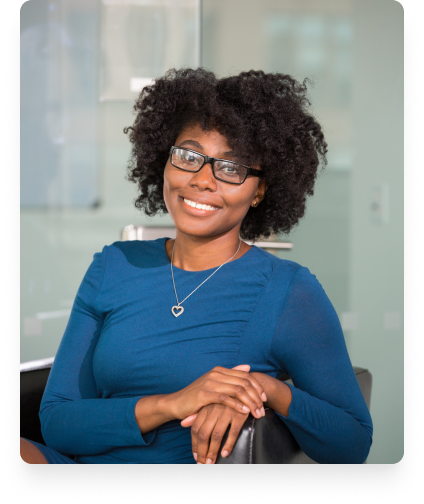
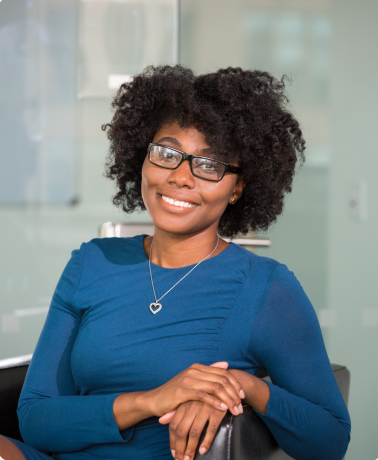
Working testimonial

diff --git a/Front End Dev Career Path/Module 11 React Advanced/01 Reusability/51 Solo Project Component Library++/index.jsx b/Front End Dev Career Path/Module 11 React Advanced/01 Reusability/51 Solo Project Component Library++/index.jsx
@@ -5,19 +5,17 @@ import Star from "./components/Star"
 import Badge from "./components/Badge/Badge"
 import Banner from "./components/Banner/index"
 import Card from "./components/Card/index"
-import Testimonial from "./components/Testimonial/index"
+import TestimonialWithImg from "./components/TestimonialWithImg/index"
 
 function App() {
   return (
-    <Testimonial>
-      <Testimonial.Image><img src="./public/mayAndersons.png" /></Testimonial.Image>
-      <Testimonial.Logo><img src="./public/quote.png" /></Testimonial.Logo>
-      <Testimonial.Quote>
+    <TestimonialWithImg>
+      <TestimonialWithImg.Image img="mayAndersons" />
+      <TestimonialWithImg.Quote>
         Lorem ipsum dolor sit amet, consectetur adipiscing elit. Sed urna nulla vitae laoreet augue. Amet feugiat est integer dolor auctor adipiscing nunc urna, sit. 
-      </Testimonial.Quote>
-      <Testimonial.Author>May Andersons</Testimonial.Author>
-      <Testimonial.Role>Workcation, CTO</Testimonial.Role>
-    </Testimonial>
+      </TestimonialWithImg.Quote>
+      <TestimonialWithImg.Author author="May Andersons" role="Workcation, CTO" />
+    </TestimonialWithImg>
   )
 }
 
@@ -25,6 +23,7 @@ ReactDOM.createRoot(document.getElementById('root')).render(<App />);
 
 
 /*
+      <Testimonial.Logo logo="logo" />
     <Badge style="square" variant="">Badge</Badge>
     ***
     <Banner style="" variant="primary">

diff --git a/Front End Dev Career Path/Module 11 React Advanced/01 Reusability/51 Solo Project Component Library++/style.css b/Front End Dev Career Path/Module 11 React Advanced/01 Reusability/51 Solo Project Component Library++/style.css
@@ -281,6 +281,43 @@ banner-content-primary {
     font-size: 1rem;
 }
 
+.testimonial-with-img {
+    display: flex;
+    flex-direction: column;
+    align-items: center;
+    background: #2545B8;
+    color: #FFFFFF;
+    margin-top: 103px;
+    position: relative;
+}
+
+.testimonial-image {
+    position: absolute;
+    top: -103px;
+    width: 334px;
+    height: 206px;
+    object-fit: cover;
+    object-position: 75% 25%;
+    border-radius: 6px;
+    box-shadow: 0px 20px 25px -5px #0000001A;
+}
+
+.testimonial-quote-container {
+    padding: 0 20px 0px 20px;
+    margin-top: 203px;
+    font-size: 1.5rem;
+}
+
+.testimonial-author {
+    font-size: 1rem;
+}
+
+.testimonial-author p {
+    margin: 0;
+}
+
+
+
 @media (min-width: 550px) {
     .card-section {
         display: flex;

diff --git a/Front End Dev Career Path/Module 11 React Advanced/01 Reusability/51 Solo Project Component Library++/components/TestimonialWithImg/index.js b/Front End Dev Career Path/Module 11 React Advanced/01 Reusability/51 Solo Project Component Library++/components/TestimonialWithImg/index.js
@@ -1,0 +1,10 @@
+import TestimonialWithImg from "./TestimonialWithImg"
+import TestimonialWithImgImage from "./TestimonialWithImgImage"
+import TestimonialWithImgQuote from "./TestimonialWithImgQuote"
+import TestimonialWithImgAuthor from "./TestimonialWithImgAuthor"
+
+TestimonialWithImg.Image = TestimonialWithImgImage
+TestimonialWithImg.Quote = TestimonialWithImgQuote
+TestimonialWithImg.Author = TestimonialWithImgAuthor
+
+export default TestimonialWithImg

diff --git a/Front End Dev Career Path/Module 11 React Advanced/01 Reusability/51 Solo Project Component Library++/components/Testimonial/index.js b/Front End Dev Career Path/Module 11 React Advanced/01 Reusability/51 Solo Project Component Library++/components/Testimonial/index.js
@@ -1,4 +1,4 @@
-import Testimonial from "./Testimonial"
+import LogoTestimonial from "./LogoTestimonial"
 import TestimonialImage from "./TestimonialImage"
 import TestimonialLogo from "./TestimonialLogo"
 import TestimonialQuote from "./TestimonialQuote"
@@ -11,4 +11,5 @@ Testimonial.Quote = TestimonialQuote
 Testimonial.Author = TestimonialAuthor
 Testimonial.Role = TestimonialRole
 
-export default Testimonial
+export LogoTestimonial
+export ImgTestimonial

diff --git a/Front End Dev Career Path/Module 11 React Advanced/01 Reusability/51 Solo Project Component Library++/components/TestimonialWithImg/TestimonialWithImgQuote.jsx b/Front End Dev Career Path/Module 11 React Advanced/01 Reusability/51 Solo Project Component Library++/components/TestimonialWithImg/TestimonialWithImgQuote.jsx
@@ -1,6 +1,6 @@
 import React from "react"
 
-export default function TestimonialQuote({ children }) {
+export default function TestimonialWithImgQuote({ children }) {
     return(
         <div className="testimonial-quote-container">
             <img className="quote-img" src="./public/quote.png" />

diff --git a/Front End Dev Career Path/Module 11 React Advanced/01 Reusability/51 Solo Project Component Library++/components/TestimonialWithImg/TestimonialWithImgAuthor.jsx b/Front End Dev Career Path/Module 11 React Advanced/01 Reusability/51 Solo Project Component Library++/components/TestimonialWithImg/TestimonialWithImgAuthor.jsx
@@ -1,6 +1,6 @@
 import React from "react"
 
-export default function TestimonialAuthor({ author, role }) {
+export default function TestimonialWithImgAuthor({ author, role }) {
     return(
         <div className="testimonial-author">
             <p>{author}</p>

diff --git a/Front End Dev Career Path/Module 11 React Advanced/01 Reusability/51 Solo Project Component Library++/components/TestimonialWithImg/TestimonialWithImgImage.jsx b/Front End Dev Career Path/Module 11 React Advanced/01 Reusability/51 Solo Project Component Library++/components/TestimonialWithImg/TestimonialWithImgImage.jsx
@@ -1,0 +1,9 @@
+import React from "react"
+
+export default function TestimonialWithImgImage({ img }) {
+    return(
+        <>
+            <img className="testimonial-image" src={`./public/${img}.png`} />
+        </>
+    )
+}

diff --git a/Front End Dev Career Path/Module 11 React Advanced/01 Reusability/51 Solo Project Component Library++/components/TestimonialWithImg/TestimonialWithImg.jsx b/Front End Dev Career Path/Module 11 React Advanced/01 Reusability/51 Solo Project Component Library++/components/TestimonialWithImg/TestimonialWithImg.jsx
@@ -1,0 +1,9 @@
+import React from "react"
+
+export default function TestimonialWithImg({ children }) {
+    return(
+        <div className="testimonial-with-img">
+            {children}
+        </div>
+    )
+}

diff --git a/Front End Dev Career Path/Module 11 React Advanced/01 Reusability/51 Solo Project Component Library++/components/Testimonial/TestimonialImg.jsx b/Front End Dev Career Path/Module 11 React Advanced/01 Reusability/51 Solo Project Component Library++/components/Testimonial/TestimonialImg.jsx
@@ -1,0 +1,9 @@
+import React from "react"
+
+export default function TestimonialImg({ children }) {
+    return(
+        <div className="testimonial-img">
+            {children}
+        </div>
+    )
+}

diff --git a/Front End Dev Career Path/Module 11 React Advanced/01 Reusability/51 Solo Project Component Library++/components/Testimonial/LogoTestimonial.jsx b/Front End Dev Career Path/Module 11 React Advanced/01 Reusability/51 Solo Project Component Library++/components/Testimonial/LogoTestimonial.jsx
@@ -1,0 +1,7 @@
+import React from "react"
+
+export default function LogoTestimonial({ logo }) {
+    return(
+        <img className="quote-logo" src={`./public/${logo}.png`} />
+    )
+}
